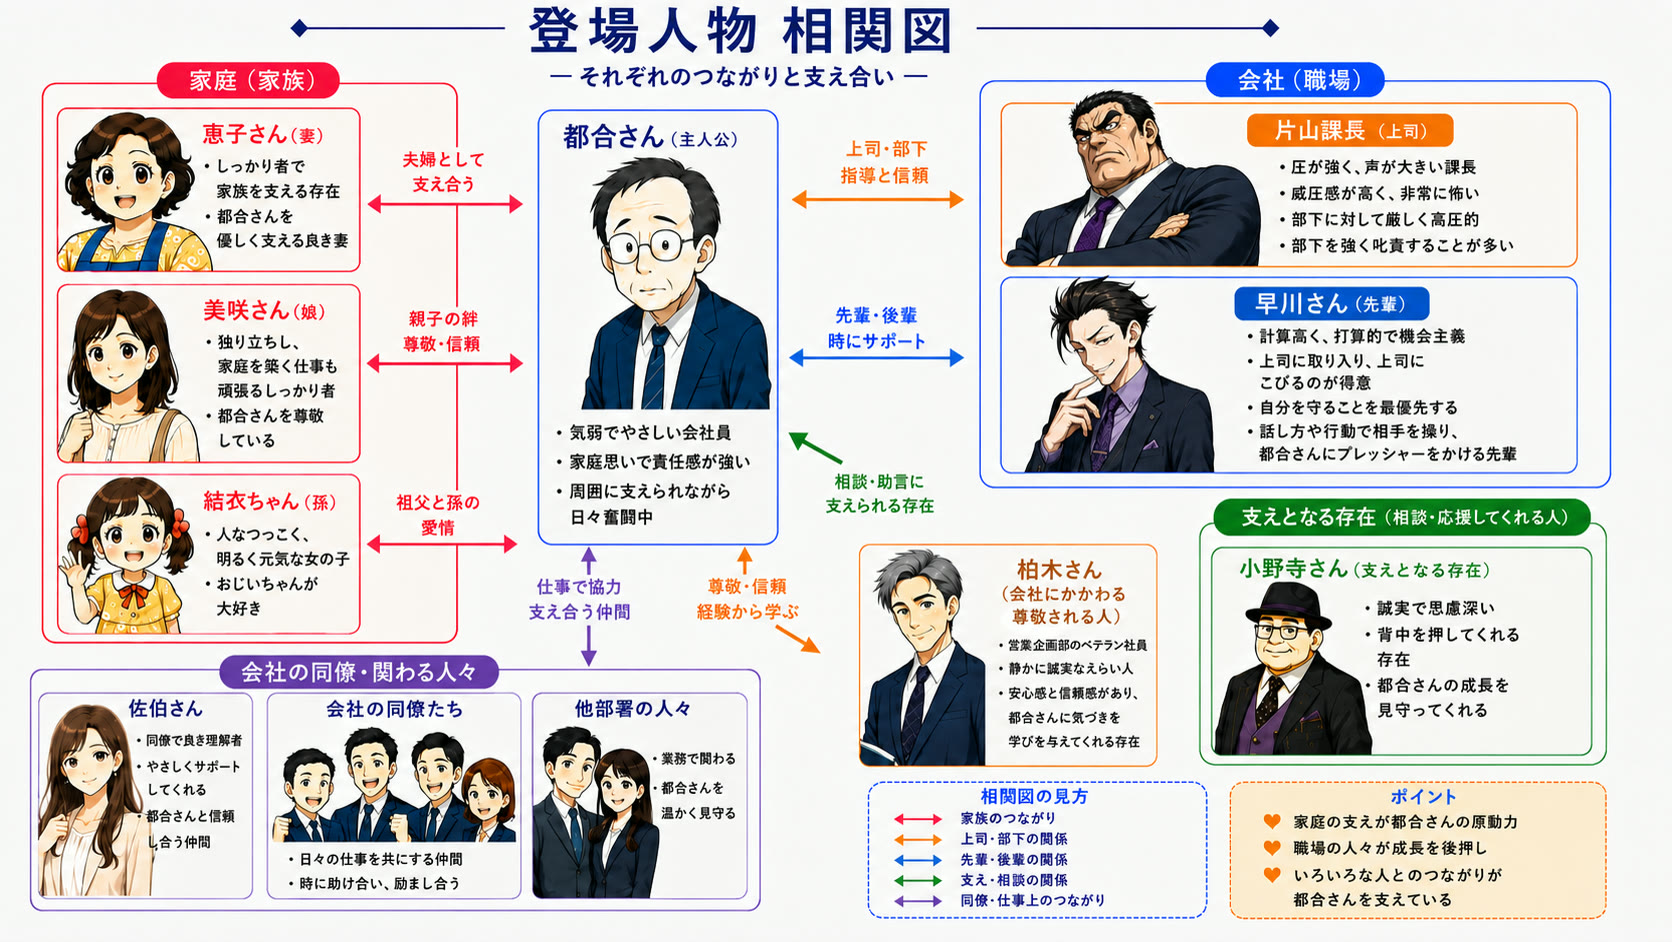
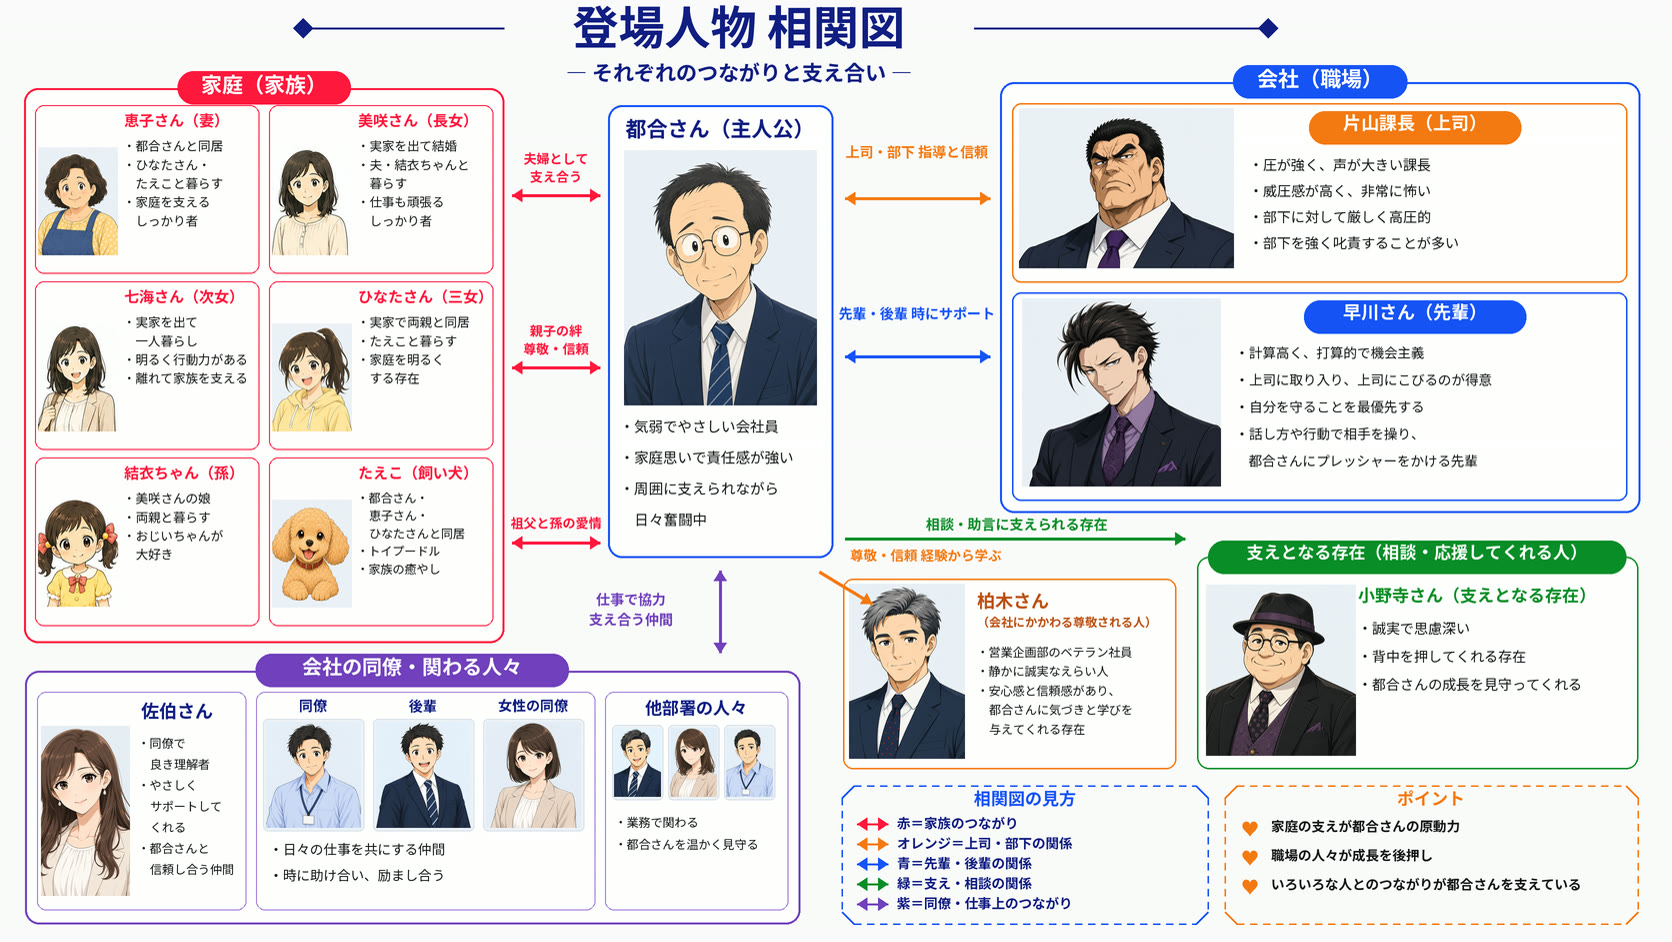
相関図をLPの人物に合わせた版に差し替え、他部署の3人を登場人物に足す
相関図は家族6人・同僚／後輩／女性の同僚・他部署の3人を入れた版（Codex作）。見出しが右の線に重なっていたのと、「しっか／り者」のような言葉の途中の改行を直した。
他部署の3人（営業部・人事部・総務部）はCodexが追加。人数が列より少ない段が全部横幅いっぱいのカードになっていたので、横幅いっぱいは1人だけの段（都合さん）に限った。

diff --git a/index.html b/index.html
@@ -177,7 +177,7 @@ a{color:inherit}
 .cast__group::after{content:"";flex:1;height:1px;background:var(--rule)}
 .cast{list-style:none;margin:.9rem 0 0;padding:0;display:grid;gap:.8rem}
 @media (min-width:640px){.cast{grid-template-columns:repeat(2,minmax(0,1fr))}.cast--solo{grid-template-columns:1fr}}
-/* PCでは4列の中に、僕（1人）→会社（7人を4人＋3人）→喫茶店（1人）＋家（3人）と並べる。--n は使う列の数、--cols は段の中の人数 */
+/* PCでは4列の中に、僕（1人）→会社（7人を4人＋3人）→他部署（3人）→喫茶店（1人）＋家（3人）と並べる。--n は使う列の数、--cols は段の中の人数 */
 @media (min-width:960px){
   .cast-groups{grid-template-columns:repeat(4,minmax(0,1fr));column-gap:.8rem}
   .cast-group{grid-column:span var(--n)}
@@ -663,6 +663,15 @@ const CAST = [
     { key: 'doryo_c', name: '女性の同僚', role: '同じ部署', color: '#9A846E', initial: '同',
       desc: 'まわりをよく見ていて、僕が手いっぱいのときも先に気づいてくれる。', quote: '一緒に確認しましょう' },
   ] },
+  // 会社の段と縦の列をそろえる（4列の中に3人）
+  { place: '他部署', columns: 4, perRow: 4, people: [
+    { key: 'eigyo', name: '営業部の人', role: '他部署', color: '#3E5875', initial: '営',
+      desc: '明るく話しやすい人。必要な情報を、僕にもこまめに共有してくれる。', quote: 'こちらでも確認しておきます' },
+    { key: 'jinji', name: '人事部の人', role: '他部署', color: '#9A846E', initial: '人',
+      desc: '落ち着いて話を聞き、相談の要点を一緒に整理してくれる。', quote: '無理のない範囲で進めましょう' },
+    { key: 'somu', name: '総務部の人', role: '他部署', color: '#527389', initial: '総',
+      desc: '職場の小さな困りごとに気づき、働く環境を整えてくれる。', quote: '何かあれば声をかけてください' },
+  ] },
   { place: '帰り道の喫茶店', people: [
     { key: 'onodera', name: '小野寺さん', role: 'メンター', color: '#2E2A2B', initial: '小',
       desc: '黒いハットに、口元の大きな笑み。いつの間にか現れて、僕の話を最後まで聞いてくれる。', quote: '小さく変われば大丈夫です' },
@@ -688,7 +697,7 @@ function renderCast() {
         img.src = `assets/cast/${p.key}.jpg`;
         face.append(img, el('span', { 'aria-hidden': 'true' }, p.initial));
         // 1人だけの段を4列ぶん使う（主人公の都合さん）ときは、横幅いっぱいのカードにする
-        const wide = group.columns && group.people.length < group.columns;
+        const wide = group.people.length === 1 && group.columns > 1;
         return el('li', { class: 'person' + (wide ? ' person--wide' : '') }, face,
           el('div', {},
             el('p', { class: 'person__name' }, p.name, el('span', { class: 'person__role' }, p.role)),
